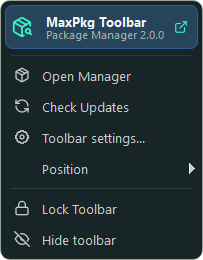
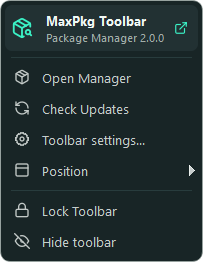
Add lightbox drag-to-dismiss and styled Position radios
- Dragging a screenshot down in the lightbox lifts and shrinks it, fades
  the backdrop, and closes past a threshold; short drags spring back.
- The toolbar Position submenu uses our radio indicators instead of Qt
  check marks.
- Menu header subtitle sits a little further from the title.

diff --git a/python/maxpkg_runtime/ui/widgets.py b/python/maxpkg_runtime/ui/widgets.py
@@ -410,9 +410,13 @@ DRAG_THRESHOLD = 6  # px of movement before a press becomes a drag instead of a 
 SWIPE_DISTANCE = 40  # px of horizontal drag that switches to the next/previous image
 
 
-def _event_x(event):
+def _event_global(event):
     position = event.globalPosition() if hasattr(event, "globalPosition") else event.globalPos()
-    return position.x()
+    return position.x(), position.y()
+
+
+def _event_x(event):
+    return _event_global(event)[0]
 
 
 class DragScroll(QtCore.QObject):
@@ -456,43 +460,56 @@ class DragScroll(QtCore.QObject):
 
 
 class Swipe(QtCore.QObject):
-    """Horizontal drag on a widget: `dragged(dx)` while it moves, `released(dx)` when it ends,
-    `clicked()` for a press and release without a drag."""
+    """Drag on a widget: `dragged(dx)` while it moves sideways, `released(dx)` when it ends, `clicked()` for a press
+    and release without a drag. With `vertical=True` a drag that starts mostly up or down reports
+    `dragged_vertical(dy)` / `released_vertical(dy)` instead (the direction is decided by the first pixels)."""
 
     dragged = Signal(int)
     released = Signal(int)
+    dragged_vertical = Signal(int)
+    released_vertical = Signal(int)
     clicked = Signal()
 
-    def __init__(self, widget):
+    def __init__(self, widget, vertical=False):
         QtCore.QObject.__init__(self, widget)
+        self.vertical = vertical
         self._start = None
-        self._dragging = False
+        self._axis = None  # None until the drag starts, then "x" or "y"
         self._cursor = None
         widget.installEventFilter(self)
+
+    def _deltas(self, event):
+        x, y = _event_global(event)
+        return x - self._start[0], y - self._start[1]
 
     def eventFilter(self, watched, event):
         kind = event.type()
         if kind == QtCore.QEvent.MouseButtonPress and event.button() == Qt.LeftButton:
-            self._start = _event_x(event)
-            self._dragging = False
+            self._start = _event_global(event)
+            self._axis = None
             return True
         if kind == QtCore.QEvent.MouseMove and self._start is not None:
-            delta = _event_x(event) - self._start
-            if not self._dragging and abs(delta) > DRAG_THRESHOLD:
-                self._dragging = True
+            dx, dy = self._deltas(event)
+            if self._axis is None and max(abs(dx), abs(dy)) > DRAG_THRESHOLD:
+                self._axis = "y" if self.vertical and abs(dy) > abs(dx) else "x"
                 self._cursor = watched.cursor()
                 watched.setCursor(Qt.ClosedHandCursor)
-            if self._dragging:
-                self.dragged.emit(int(delta))
-            return self._dragging
+            if self._axis == "x":
+                self.dragged.emit(int(dx))
+            elif self._axis == "y":
+                self.dragged_vertical.emit(int(dy))
+            return self._axis is not None
         if kind == QtCore.QEvent.MouseButtonRelease and self._start is not None and event.button() == Qt.LeftButton:
-            delta = _event_x(event) - self._start
-            dragged = self._dragging
+            dx, dy = self._deltas(event)
+            axis = self._axis
             self._start = None
-            self._dragging = False
-            if dragged:
+            self._axis = None
+            if axis is not None:
                 watched.setCursor(self._cursor)
-                self.released.emit(int(delta))
+            if axis == "x":
+                self.released.emit(int(dx))
+            elif axis == "y":
+                self.released_vertical.emit(int(dy))
             else:
                 self.clicked.emit()
             return True
@@ -508,12 +525,22 @@ class SlideView(QtWidgets.QWidget):
 
     index_changed = Signal(int)
     clicked = Signal()
+    dismiss_progress = Signal(float)  # 0..1 while the image is dragged up or down (dismissible only)
+    dismissed = Signal()              # it was thrown off the screen: close the viewer
     GAP = 24
+    DISMISS_DISTANCE = 110  # px of vertical drag that closes, like Fancybox; a shorter one springs back
 
-    def __init__(self, count, pixmap_for, themes, radius=0, inset=2, parent=None):
+    def __init__(self, count, pixmap_for, themes, radius=0, inset=2, dismissible=False, parent=None):
         """radius: rounded clip of the frame; inset: side margin each image is fitted into (slides still cross
-        the whole widget)."""
+        the whole widget); dismissible: drag the image up or down to close (the lightbox)."""
         QtWidgets.QWidget.__init__(self, parent)
+        self.lift = 0.0  # vertical offset of the dragged image
+        self._lift_animation = QtCore.QVariantAnimation(self)
+        self._lift_animation.setDuration(260)
+        self._lift_animation.setEasingCurve(QtCore.QEasingCurve.OutCubic)
+        self._lift_animation.valueChanged.connect(self._set_lift)
+        self._lift_animation.finished.connect(self._lift_settled)
+        self._dismissing = False
         self.setAttribute(Qt.WA_StyledBackground)  # the #ScreenshotMain frame still comes from the stylesheet
         self.count = count
         self.pixmap_for = pixmap_for
@@ -535,10 +562,42 @@ class SlideView(QtWidgets.QWidget):
         self._spin_timer = QtCore.QTimer(self)
         self._spin_timer.setInterval(33)
         self._spin_timer.timeout.connect(self.update)
-        self._swipe = Swipe(self)
+        self._swipe = Swipe(self, vertical=dismissible)
         self._swipe.dragged.connect(self._on_drag)
         self._swipe.released.connect(self._on_release)
+        self._swipe.dragged_vertical.connect(self._on_lift)
+        self._swipe.released_vertical.connect(self._on_lift_release)
         self._swipe.clicked.connect(self.clicked.emit)
+
+    # --- drag up or down to dismiss (Fancybox style) ---------------------------------
+    def _progress(self):
+        return min(1.0, abs(self.lift) / max(1.0, self.height() * 0.45))
+
+    def _set_lift(self, value):
+        self.lift = float(value)
+        self.update()
+        self.dismiss_progress.emit(self._progress())
+
+    def _on_lift(self, delta):
+        self._lift_animation.stop()
+        self._set_lift(delta)
+
+    def _on_lift_release(self, delta):
+        self._dismissing = abs(delta) >= self.DISMISS_DISTANCE
+        end = (self.height() if delta > 0 else -self.height()) if self._dismissing else 0.0
+        self._lift_animation.setDuration(220 if self._dismissing else 320)
+        self._lift_animation.setEasingCurve(QtCore.QEasingCurve.InCubic if self._dismissing
+                                            else QtCore.QEasingCurve.OutBack)
+        self._lift_animation.setStartValue(float(self.lift))
+        self._lift_animation.setEndValue(float(end))
+        self._lift_animation.start()
+
+    def _lift_settled(self):
+        if self._dismissing:
+            self._dismissing = False
+            self.dismissed.emit()
+        else:
+            self._set_lift(0.0)
 
     def set_index(self, index):
         self._animation.stop()
@@ -631,7 +690,14 @@ class SlideView(QtWidgets.QWidget):
             painter.setClipPath(clip)
         area = QtCore.QRectF(self.rect()).adjusted(self.inset, 2, -self.inset, -2)
         size = QtCore.QSize(int(area.width()), int(area.height()))
-        neighbours = (-1, 0, 1) if self.count > 1 else (0,)
+        if self.lift:
+            # Dragged up or down: the image follows and shrinks a little (up to 15 %), around its centre.
+            scale = 1.0 - 0.15 * self._progress()
+            middle = area.center()
+            painter.translate(middle.x(), middle.y() + self.lift)
+            painter.scale(scale, scale)
+            painter.translate(-middle.x(), -middle.y())
+        neighbours = (-1, 0, 1) if self.count > 1 and not self.lift else (0,)
         loading = False
         for step in neighbours:
             left = area.left() + step * self._span() + self.offset
@@ -1002,6 +1068,36 @@ def paint_check(painter, rect, checked, hovered, theme, radio=False, dpr=1.0):
     painter.restore()
 
 
+def add_choice_action(menu, text, checked, callback, themes):
+    """One option of a group, drawn as our radio (ring; accent dot when chosen) in the icon column, instead of
+    Qt's own check mark."""
+    dpr = menu.devicePixelRatioF()
+    pixmap = QtGui.QPixmap(int(16 * dpr), int(16 * dpr))
+    pixmap.setDevicePixelRatio(dpr)
+    pixmap.fill(Qt.transparent)
+    painter = QtGui.QPainter(pixmap)
+    paint_check(painter, QtCore.QRectF(1, 1, 14, 14), checked, False, themes.manager, radio=True, dpr=dpr)
+    painter.end()
+    action = menu.addAction(text)
+    action.setIcon(QtGui.QIcon(pixmap))
+    if checked:
+        font = QtGui.QFont(action.font())
+        font.setBold(True)
+        action.setFont(font)
+    action.triggered.connect(callback)
+    return action
+
+
+def themed_submenu(menu, text, themes, icon_name=""):
+    """A submenu with the same frameless rounded look as `themed_menu` and an icon on its row."""
+    submenu = themed_menu(menu)
+    submenu.setTitle(text)
+    if icon_name:
+        submenu.menuAction().setIcon(icons.icon(icon_name, themes.color("iconPrimary"), 16, menu.devicePixelRatioF()))
+    menu.addMenu(submenu)
+    return submenu
+
+
 def themed_menu(parent):
     menu = QtWidgets.QMenu(parent)
     menu.setObjectName("ContextMenu")
@@ -1067,7 +1163,8 @@ class _MenuTitle(QtWidgets.QWidget):
     darker band, with a bold name and a muted line under it, so it never reads as a menu item."""
 
     ICON = 22
-    HEIGHT = 46
+    HEIGHT = 48
+    LINE_GAP = 3  # px between the name and the line under it
 
     triggered = Signal()
 
@@ -1141,8 +1238,11 @@ class _MenuTitle(QtWidgets.QWidget):
         width = self.width() - left - 10 - (24 if self.link_icon else 0)
         title_metrics = QtGui.QFontMetrics(self.title_font)
         if self.subtitle:
-            title_top = band.height() / 2.0 - title_metrics.height() + 2
-            sub_top = band.height() / 2.0 + 1
+            # Both lines centred as one block, LINE_GAP apart (they no longer touch).
+            sub_height = QtGui.QFontMetrics(self.sub_font).height()
+            block = title_metrics.height() + self.LINE_GAP + sub_height
+            title_top = (band.height() - block) / 2.0
+            sub_top = title_top + title_metrics.height() + self.LINE_GAP
         else:
             title_top = (band.height() - title_metrics.height()) / 2.0
         painter.setFont(self.title_font)

diff --git a/python/maxpkg_runtime/ui/manager_window.py b/python/maxpkg_runtime/ui/manager_window.py
@@ -521,20 +521,30 @@ class BusyCard(QtWidgets.QFrame):
 
 
 class ScreenshotPreview(QtWidgets.QWidget):
-    """Full-window screenshot viewer with previous/next and close (Esc)."""
+    """Full-window screenshot viewer with previous/next and close (Esc). Like Fancybox, dragging the image up or
+    down fades the backdrop and, past a short distance, throws the image off and closes; the backdrop fades in
+    when it opens."""
 
     def __init__(self, window, shots, index):
         QtWidgets.QWidget.__init__(self, window)
-        self.setObjectName("BusyShade")
-        self.setAttribute(Qt.WA_StyledBackground)
+        self.setObjectName("Lightbox")
         self.manager_window = window
+        self.themes = window.themes
         self.shots = shots
         self.index = index
+        self._shade = 0.0  # backdrop strength 0..1 (it paints itself so a drag can fade it)
         images = window.images
         self.image = SlideView(len(shots), lambda position: images.get(shots[position].url), window.themes,
-                               inset=70, parent=self)
+                               inset=70, dismissible=True, parent=self)
         self.image.set_index(index)
         self.image.index_changed.connect(self._on_index)
+        self.image.dismiss_progress.connect(self._on_dismiss_progress)
+        self.image.dismissed.connect(self.close_preview)
+        self._fade_in = QtCore.QVariantAnimation(self)
+        self._fade_in.setDuration(200)
+        self._fade_in.setStartValue(0.0)
+        self._fade_in.setEndValue(1.0)
+        self._fade_in.valueChanged.connect(self._set_shade)
         self.caption = label("", "ToastText", parent=self)
         self.caption.setAlignment(Qt.AlignCenter)
         self.buttons = []
@@ -558,6 +568,29 @@ class ScreenshotPreview(QtWidgets.QWidget):
         self.activateWindow()
         self.setFocus(Qt.OtherFocusReason)
         self._paint()
+        self._fade_in.start()
+
+    def _set_shade(self, value):
+        self._shade = float(value)
+        self.update()
+
+    def _on_dismiss_progress(self, progress):
+        """The image is dragged up or down: the backdrop fades, the controls step aside until it comes back."""
+        self._fade_in.stop()
+        self._set_shade(1.0 - 0.85 * progress)
+        resting = progress < 0.01
+        for widget in self.buttons + [self.caption]:
+            widget.setVisible(resting)
+
+    def paintEvent(self, _event):
+        color = QtGui.QColor(self.themes.manager.color("backgroundOverlay"))
+        color.setAlphaF(color.alphaF() * self._shade)
+        painter = QtGui.QPainter(self)
+        painter.fillRect(self.rect(), color)
+        painter.end()
+
+    def mousePressEvent(self, event):
+        event.accept()  # clicks on the backdrop stay in the lightbox
 
     def close_preview(self):
         self.hide()

diff --git a/python/maxpkg_runtime/ui/toolbar.py b/python/maxpkg_runtime/ui/toolbar.py
@@ -12,7 +12,7 @@ from ..qt_compat import (QAction, QtCore, QtGui, QtWidgets, Qt, Signal, event_gl
 from . import icons
 from .dialogs import confirm
 from .frame import apply_native_frame, native_event
-from .widgets import add_action, add_danger_action, add_menu_title, themed_menu
+from .widgets import add_action, add_choice_action, add_danger_action, add_menu_title, themed_menu, themed_submenu
 
 AREAS = {"top": Qt.TopToolBarArea, "bottom": Qt.BottomToolBarArea, "left": Qt.LeftToolBarArea,
          "right": Qt.RightToolBarArea}
@@ -924,13 +924,12 @@ class ToolbarController(QtCore.QObject):
         add_action(menu, "Open Manager", lambda: self.open_manager(""), self.themes, "package")
         add_action(menu, "Check Updates", lambda: self.runtime.check_updates(True), self.themes, "refresh-cw")
         add_action(menu, "Toolbar settings...", lambda: self.open_manager("settings:toolbar"), self.themes, "settings")
-        dock = menu.addMenu("Position")
-        dock.setObjectName("ContextMenu")
+        dock = themed_submenu(menu, "Position", self.themes, "panel-top")
+        current = self.runtime.settings.toolbar_dock_position
         for key, text in (("top", "Top"), ("bottom", "Bottom"), ("left", "Left"), ("right", "Right"),
                           ("floatinghorizontal", "Floating Horizontal"), ("floatingvertical", "Floating Vertical")):
-            action = add_action(dock, text, lambda _checked=False, value=key: self.set_position(value))
-            action.setCheckable(True)
-            action.setChecked(self.runtime.settings.toolbar_dock_position == key)
+            add_choice_action(dock, text, current == key, lambda _checked=False, value=key: self.set_position(value),
+                              self.themes)
         menu.addSeparator()
         self._add_lock_action(menu)
         add_action(menu, "Hide toolbar", self._hide_toolbar, self.themes, "eye-off")
